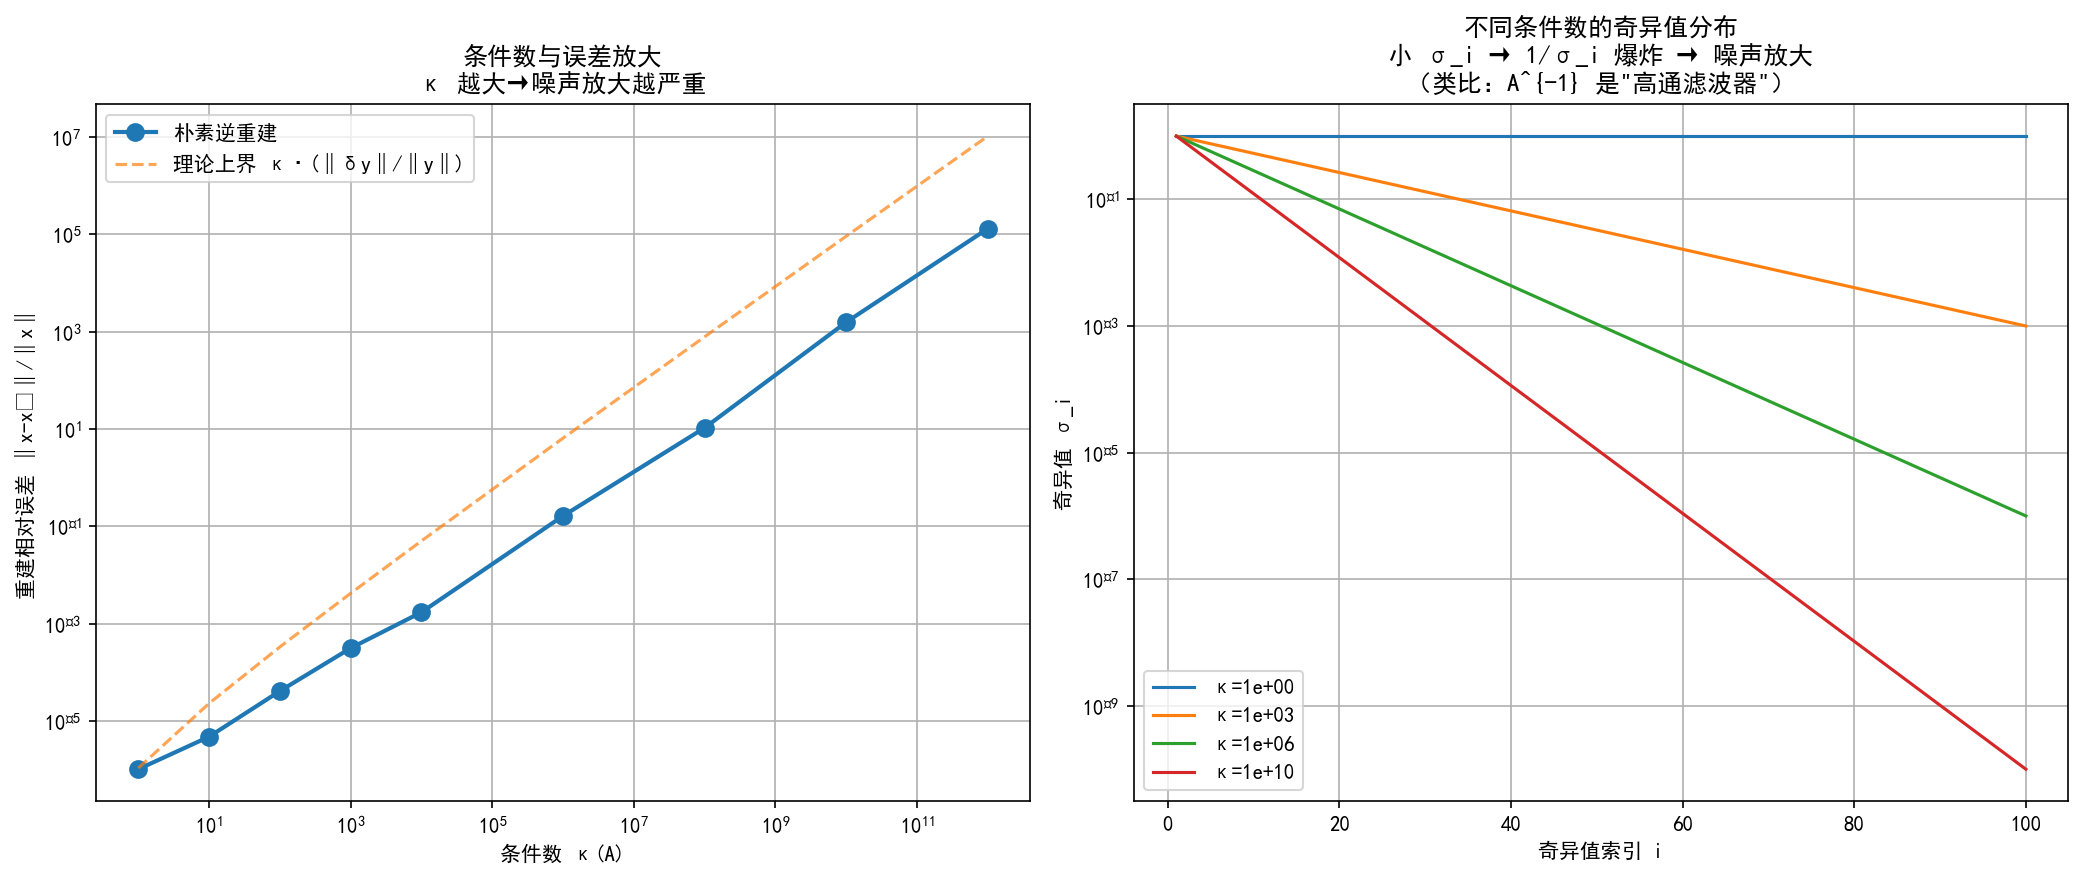
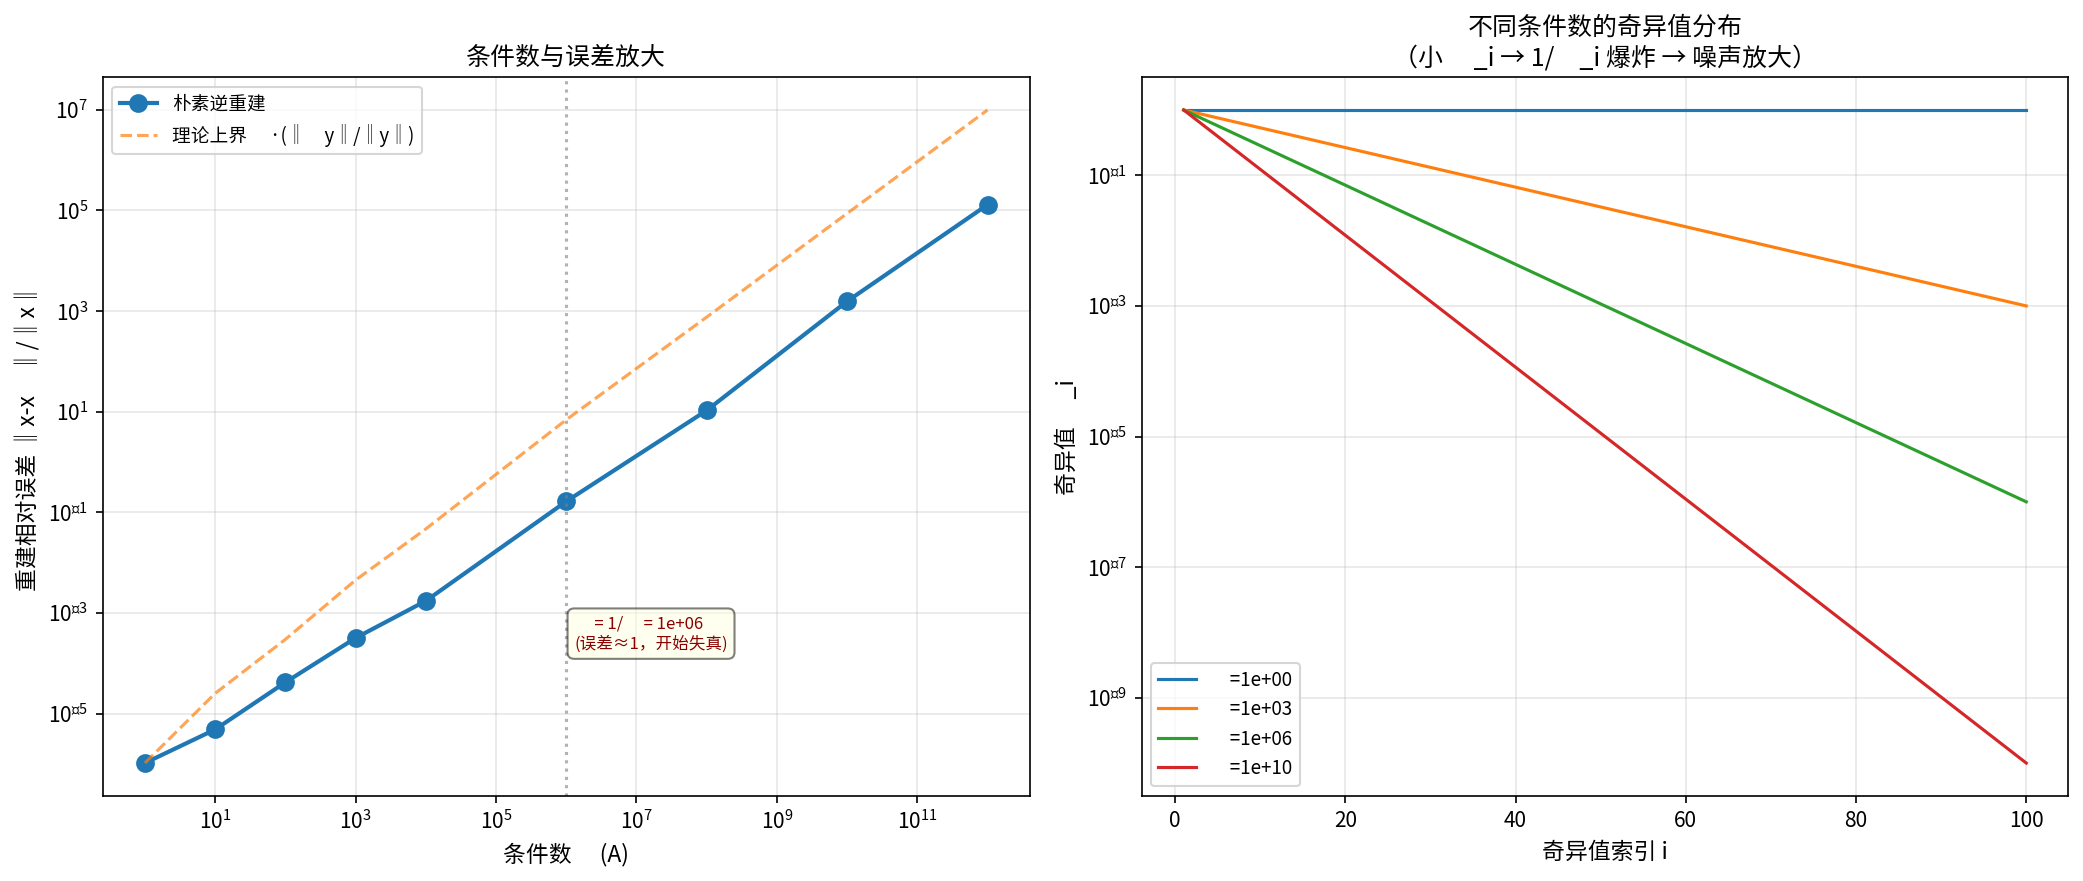
new

diff --git a/第1章 逆问题与贝叶斯推断/配套实验/实验1.3-1/1.3-1.py b/第1章 逆问题与贝叶斯推断/配套实验/实验1.3-1/1.3-1.py
@@ -17,10 +17,13 @@ if os.path.isdir(_gdrive):
     SAVE_DIR = os.path.join(_gdrive, '实验1.3-1')
 else:
     _chinese_path = '.chinese'
-    SAVE_DIR = os.path.dirname(os.path.abspath(__file__)) if '__file__' in dir() else os.getcwd()
+    SAVE_DIR = os.path.dirname(os.path.abspath(__file__)) if '__file__' in globals() else os.getcwd()
 sys.path.insert(0, _chinese_path)
-from chinese_font import setup_chinese_font
-setup_chinese_font(save_dir=_chinese_path)
+try:
+    from chinese_font import setup_chinese_font
+    setup_chinese_font(save_dir=_chinese_path)
+except ImportError:
+    pass
 # ========================================================
 
 np.random.seed(42)
@@ -44,8 +47,8 @@ x_true = np.random.randn(n)
 # 4. 对于一般矩阵，需要通过 np.linalg.svd() 计算奇异值（见实验1.7）
 # 
 # 这种简化让我们能专注于理解"奇异值衰减→误差放大"的核心机制
-# 条件数从 1 到 10^12
-kappas = [1, 10, 1e2, 1e3, 1e4, 1e6, 1e8, 1e10, 1e12]
+# 条件数从 1 到 10^12（统一使用浮点数，避免字典键类型不一致）
+kappas = [10.0**k for k in [0, 1, 2, 3, 4, 6, 8, 10, 12]]
 noise_level = 1e-6  # 数据中的噪声水平
 
 # 预计算各条件数对应的奇异值（即对角元）
@@ -62,12 +65,14 @@ print(f"- 条件数范围: {kappas[0]} 到 {kappas[-1]}")
 print("-"*60)
 
 rel_errors = []
+theory_bound = []
 
 for kappa in kappas:
     singular_values = singular_values_cache[kappa]
 
     # 正问题：y = Ax
     y = singular_values * x_true
+    y_norm = np.linalg.norm(y)
 
     # 加入噪声
     y_noisy = y + noise_level * np.random.randn(n)
@@ -79,26 +84,34 @@ for kappa in kappas:
     rel_err = np.linalg.norm(x_recon - x_true) / np.linalg.norm(x_true)
     rel_errors.append(rel_err)
 
+    # 理论上界: ‖δx‖/‖x‖ ≤ κ · ‖δy‖/‖y‖
+    # 直接用实际噪声范数 ‖δy‖，而非期望值 noise_level·√n
+    delta_y_norm = np.linalg.norm(y_noisy - y)
+    theory_bound.append(kappa * delta_y_norm / y_norm)
+
 # ---- 2. 可视化 ----
 fig, axes = plt.subplots(1, 2, figsize=(14, 6))
 
 # 重建误差 vs 条件数
 axes[0].loglog(kappas, rel_errors, 'o-', linewidth=2, markersize=8, label='朴素逆重建')
 
-# 理论上界: ‖δx‖/‖x‖ ≤ κ · ‖δy‖/‖y‖
-# 注意：噪声向量 δy = noise_level * randn(n)，其期望范数为 noise_level * √n
-theory_bound = []
-for kappa in kappas:
-    sv = singular_values_cache[kappa]
-    y_norm = np.linalg.norm(sv * x_true)
-    theory_bound.append(kappa * (noise_level * np.sqrt(n)) / y_norm)
+# 理论上界
 axes[0].loglog(kappas, theory_bound, '--', alpha=0.7, label='理论上界 κ·(‖δy‖/‖y‖)')
 
-axes[0].set_xlabel('条件数 κ(A)')
-axes[0].set_ylabel('重建相对误差 ‖x-x̂‖/‖x‖')
-axes[0].set_title('条件数与误差放大\nκ 越大→噪声放大越严重')
-axes[0].legend()
-axes[0].grid(True, which='both')
+# 添加垂直参考线：κ = 1/noise_level，这是误差开始超过信号的理论拐点
+kappa_critical = 1.0 / noise_level
+axes[0].axvline(kappa_critical, color='gray', linestyle=':', linewidth=1.5, alpha=0.6)
+# 在参考线旁添加注释：同时说明公式和含义
+axes[0].text(kappa_critical*1.3, 2e-4, 
+             f'κ = 1/ε = {kappa_critical:.0e}\n(误差≈1，开始失真)', 
+             fontsize=8, color='darkred',
+             bbox=dict(boxstyle='round,pad=0.4', facecolor='lightyellow', alpha=0.5))
+
+axes[0].set_xlabel('条件数 κ(A)', fontsize=11)
+axes[0].set_ylabel('重建相对误差 ‖x-x̂‖/‖x‖', fontsize=11)
+axes[0].set_title('条件数与误差放大', fontsize=12, fontweight='bold')
+axes[0].legend(fontsize=9)
+axes[0].grid(True, which='both', alpha=0.3)
 
 # 奇异值衰减示意
 # 注：这里展示的是对角矩阵的奇异值（即对角元）的分布
@@ -106,14 +119,16 @@ axes[0].grid(True, which='both')
 # 关键直觉：奇异值 σ_i 越小 → 该方向的放大因子 1/σ_i 越大
 # 类比"高通滤波器"：小奇异值方向对应高频分量，求逆时被剧烈放大
 # 正向算子 A 像"低通滤波器"（压制高频），A^{-1} 则像"高通滤波器"（放大高频噪声）
-for kappa in [1, 1e3, 1e6, 1e10]:
+for kappa in [1e0, 1e3, 1e6, 1e10]:
     sv = singular_values_cache[kappa]
     axes[1].semilogy(np.arange(1, n + 1), sv, label=f'κ={kappa:.0e}')
-axes[1].set_xlabel('奇异值索引 i')
-axes[1].set_ylabel('奇异值 σ_i')
-axes[1].set_title('不同条件数的奇异值分布\n小 σ_i → 1/σ_i 爆炸 → 噪声放大\n（类比：A^{-1} 是"高通滤波器"）')
-axes[1].legend()
-axes[1].grid(True)
+axes[1].set_xlabel('奇异值索引 i', fontsize=11)
+axes[1].set_ylabel('奇异值 σ_i', fontsize=11)
+# 将副标题整合到主标题中，使用换行符分隔
+axes[1].set_title('不同条件数的奇异值分布\n（小 σ_i → 1/σ_i 爆炸 → 噪声放大）', 
+                  fontsize=12, fontweight='bold')
+axes[1].legend(fontsize=9)
+axes[1].grid(True, alpha=0.3)
 
 plt.tight_layout()
 plt.savefig(os.path.join(SAVE_DIR, '实验1_3_1_病态性.png'), dpi=150, bbox_inches='tight')
@@ -122,16 +137,28 @@ plt.show()
 print("\n" + "="*60)
 print("数值结果表：条件数 vs 误差放大")
 print("="*60)
-print(f"{'κ(A)':>12s}  {'朴素误差':>12s}  {'有效数字丢失':>12s}")
-print("-" * 40)
+print(f"{'κ(A)':>12s}  {'朴素误差':>12s}  {'理论丢失':>10s}  {'实际丢失':>10s}")
+print("-" * 52)
+
+# 基线精度：噪声水平决定的初始精度上限
+baseline_digits = round(-np.log10(noise_level))  # = 6，表示噪声本身的精度
+
 for kappa, err in zip(kappas, rel_errors):
-    # 估算有效数字丢失：根据1.3节，log10(κ) ≈ 丢失的有效数字位数
-    # 当 κ=10^k 时，理论上可能丢失 k 位有效数字
-    digits_lost_theory = int(np.log10(kappa)) if kappa > 1 else 0
-    # 实际丢失位数基于误差大小（误差>1表示完全失真）
-    digits_lost_actual = max(0, int(np.log10(err)) + 1) if err > 1e-16 else 0
-    # 显示理论估算值（与1.3节对应）
-    print(f"{kappa:12.0e}  {err:12.4e}  ~{digits_lost_theory:>8d} 位")
+    # 理论丢失：log10(κ)，衡量条件数本身的量级（上界估计）
+    digits_lost_theory = round(np.log10(kappa)) if kappa > 1.0 else 0
+    
+    # 实际丢失：log10(err/noise_level)，衡量因条件数导致的额外精度损失
+    # = 基线精度 - 重建后精度
+    if err >= 1.0:
+        digits_lost_str = f'>{baseline_digits}位（完全失真）'
+    elif err > 1e-16:
+        digits_remaining = round(-np.log10(err))  # 重建后还剩几位精度
+        digits_lost_actual = max(0, baseline_digits - digits_remaining)
+        digits_lost_str = f'~{digits_lost_actual:>4d}位'
+    else:
+        digits_lost_str = '  0位'
+    
+    print(f'{kappa:12.0e}  {err:12.4e}  ~{digits_lost_theory:>6d}位  {digits_lost_str:>10s}')
 
 print("\n" + "="*60)
 print("实验结论：")
@@ -145,10 +172,6 @@ print("\n数值解读（参考1.3节）：")
 print("- κ ≈ 10^3：轻度病态，约丢失3位有效数字")
 print("- κ ≈ 10^6：中度病态，约丢失6位有效数字")
 print("- κ ≈ 10^10：严重病态，几乎无法恢复有意义的解")
-print("\n物理直觉：")
-print("- 正向算子 A 像'低通滤波器'：平滑、压缩、积分，压制高频分量")
-print("- 逆向算子 A^{-1} 像'高通滤波器'：放大被压制的高频噪声")
-print("- 小奇异值方向 = 高频方向 → 1/σ_i 巨大 → 噪声灾难性放大")
 print("="*60)
 
 if _in_jupyter:
